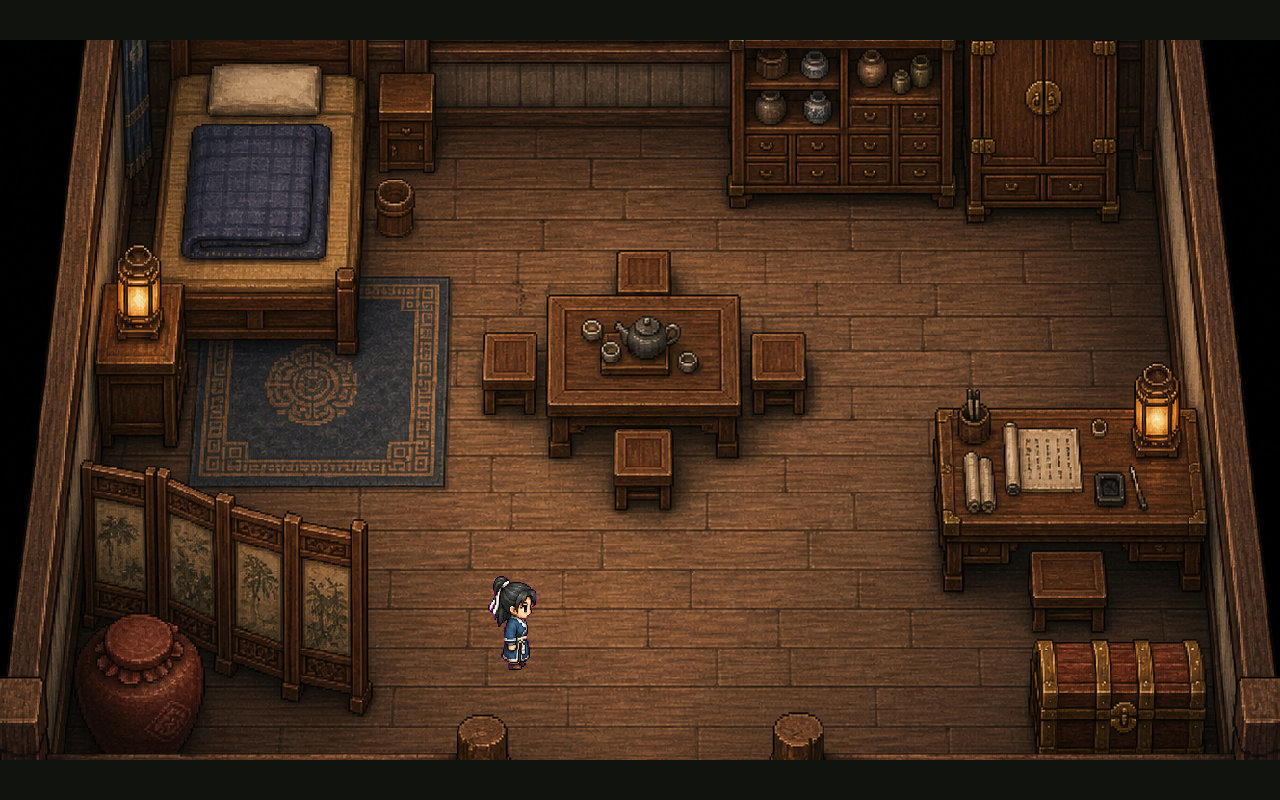
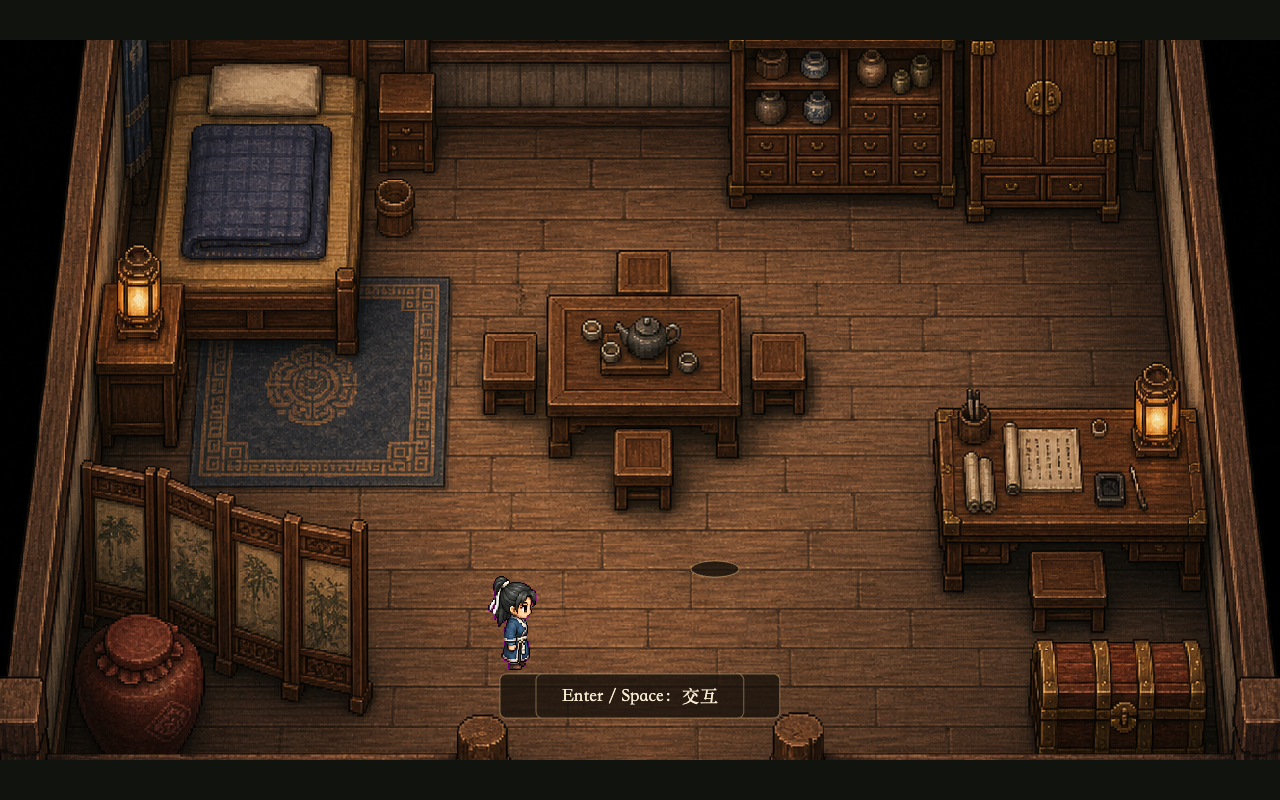
Fix map trigger priority and stall occlusion

Changed region(s): [[0.375, 0.8438, 0.625, 0.9062], [0.5312, 0.6875, 0.5938, 0.7188]]

diff --git a/src/maps/MapManager.js b/src/maps/MapManager.js
@@ -37,7 +37,17 @@ export class MapManager {
   }
 
   triggerAt(rect) {
-    return this.triggers.find((trigger) => intersects(rect, trigger));
+    return nearestTrigger(rect, this.triggers.filter((trigger) => intersects(rect, trigger)));
+  }
+
+  triggerNear(rect, margin = 64) {
+    const expanded = {
+      x: rect.x - margin,
+      y: rect.y - margin,
+      width: rect.width + margin * 2,
+      height: rect.height + margin * 2
+    };
+    return nearestTrigger(rect, this.triggers.filter((trigger) => intersects(expanded, trigger)));
   }
 }
 
@@ -82,4 +92,18 @@ function normalizeObjects(objects) {
 
 function intersects(a, b) {
   return a.x < b.x + b.width && a.x + a.width > b.x && a.y < b.y + b.height && a.y + a.height > b.y;
+}
+
+function nearestTrigger(rect, triggers) {
+  if (!triggers.length) return null;
+  const center = {
+    x: rect.x + rect.width / 2,
+    y: rect.y + rect.height / 2
+  };
+  return triggers
+    .map((trigger) => ({
+      trigger,
+      distance: Math.hypot(center.x - (trigger.x + trigger.width / 2), center.y - (trigger.y + trigger.height / 2))
+    }))
+    .sort((a, b) => a.distance - b.distance)[0].trigger;
 }

diff --git a/src/assets/assetManifest.js b/src/assets/assetManifest.js
@@ -56,7 +56,8 @@ export const assets = {
       occlusion: [
         { name: "temple_roof_overlay", type: "occlusion", x: 2140, y: 520, width: 860, height: 350 },
         { name: "inn_roof_overlay", type: "occlusion", x: 2650, y: 1960, width: 690, height: 285 },
-        { name: "medicine_stall_overlay", type: "occlusion", x: 3008, y: 2368, width: 256, height: 192 }
+        { name: "medicine_stall_roof_overlay", type: "occlusion", x: 3008, y: 2368, width: 256, height: 82 },
+        { name: "medicine_stall_counter_overlay", type: "occlusion", x: 3072, y: 2460, width: 192, height: 64 }
       ],
       npcs: [
         {

diff --git a/src/scenes/WorldScene.js b/src/scenes/WorldScene.js
@@ -75,7 +75,7 @@ export class WorldScene {
       this.player.update(dt, this.input, this.collision);
     }
     this.camera.follow(this.player, this.map);
-    this.activeTrigger = this.map.triggerAt(this.player.bounds);
+    this.activeTrigger = this.map.triggerAt(this.player.bounds) || this.map.triggerNear(this.player.bounds, 96);
     if (this.activeTrigger && (this.input.consume("enter") || this.input.consume(" "))) {
       this.runScript(this.activeTrigger.name);
     }

diff --git a/PROJECT_MEMORY.md b/PROJECT_MEMORY.md
@@ -40,8 +40,10 @@ node scripts/sprite_anchor_audit.mjs
 - Do not make every `prop` object blocking. Bridges, signs, doors, and decorative props can share the same Tiled type but need different collision behavior. Prefer explicit masks or narrow `collisionTypes` such as `supply`, `battle`, and `boss`.
 - Roofs, walls, stalls, beds, cabinets, screens, and large props need collision masks. Otherwise the player can walk onto roofs or through furniture.
 - Occlusion/depth masks are separate from collision. Use `assets.maps[mapId].occlusion` or map objects with type `occlusion`, then draw base map, NPCs/sprites, player, and occlusion masks last.
+- Do not use one large foreground rectangle for a complex prop near an NPC. The medicine stall needed split occlusion masks for roof/counter; a single `256x192` mask covered the vendor/player area.
 - NPCs must be placed on reachable foot-anchor positions and near likely player routes. The contract check should fail if an NPC foot position overlaps collision.
 - Door triggers should be large enough to touch the player foot collision box, but roof/body collision should not cover the reachable trigger zone.
+- Large generated trigger zones can overlap small hand-authored triggers. `MapManager.triggerAt()` and `triggerNear()` should choose the nearest matching trigger, not the first object in Tiled order; otherwise the inn door can be swallowed by the broad medicine-market trigger.
 - Scripted auto-walk is used for QA tours and may bypass some manual navigation friction. Manual movement must still obey `CollisionSystem`.
 
 Useful check:
